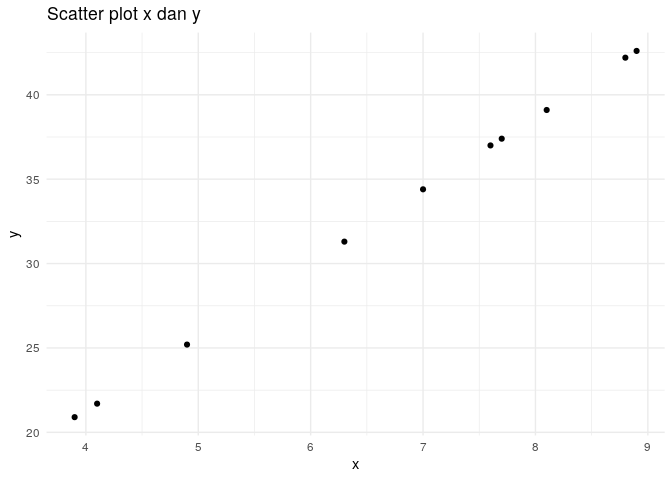
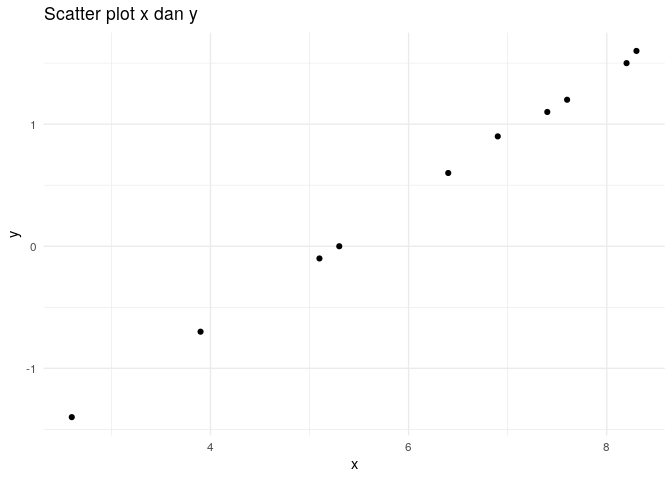
new

diff --git a/_posts/matematika ITB/analisa numerik lanjut/regresi_linear/post.html b/_posts/matematika ITB/analisa numerik lanjut/regresi_linear/post.html
@@ -648,34 +648,34 @@ n &amp; \sum_{i=1}^n x_i \\
 <hr />
 <p>Sekarang kita akan coba membuat persamaan regresi dari data tertentu berdasarkan persamaan di atas <strong>tanpa menggunakan function</strong> <code>lm()</code> dari <em>base</em>-nya <strong>R</strong>.</p>
 <p>Misalkan saya punya data sebagai berikut:</p>
-<pre><code>##  [1] 8.8 6.3 7.6 7.7 4.1 8.9 7.0 4.9 8.1 3.9
+<pre><code>##  [1] 6.9 7.6 3.9 7.4 5.1 2.6 8.3 5.3 8.2 6.4
 
-##  [1] 42.2 31.3 37.0 37.4 21.7 42.6 34.4 25.2 39.1 20.9
+##  [1]  0.9  1.2 -0.7  1.1 -0.1 -1.4  1.6  0.0  1.5  0.6
 </code></pre>
 <p>Jika dibuat dalam bentuk <em>scatter plot</em>:</p>
[2 lines of base64/hex data omitted]
 <p>Untuk membuat persamaan regresinya, kita cukup hitung:</p>
 <ul>
[6 lines of base64/hex data omitted]
 </ul>
 <p>Lalu saya akan buat matriks berikut:</p>
 <pre><code>##      [,1]   [,2]
-## [1,] 10.0  67.30
-## [2,] 67.3 484.03
+## [1,] 10.0  61.70
+## [2,] 61.7 413.29
 </code></pre>
 <p>dan membuat <em>vector</em> berikut:</p>
-<pre><code>## [1]  331.80 2368.34
+<pre><code>## [1]  4.70 46.01
 </code></pre>
[1 lines of base64/hex data omitted]
 <div class="sourceCode" id="cb4"><pre class="sourceCode r"><code class="sourceCode r"><a class="sourceLine" id="cb4-1" title="1"><span class="kw">solve</span>(A) <span class="op">%*%</span><span class="st"> </span>d</a></code></pre></div>
-<pre><code>##          [,1]
-## [1,] 3.896569
-## [2,] 4.351178
+<pre><code>##            [,1]
+## [1,] -2.7494678
+## [2,]  0.5217938
 </code></pre>
 <p>Kita dapatkan formulanya sebagai berikut:</p>
-<p>y = 4.3511784 x + 3.8965692</p>
+<p>y = 0.5217938 x + -2.7494678</p>
 <p>Salah satu <em>insight</em> yang bisa kita dapatkan adalah:</p>
 <blockquote>
 <p><em><strong>Ternyata masalah curve fitting yang sering dimasukkan ke dalam statistika justru diselesaikan secara aljabar.</strong></em></p>
@@ -688,7 +688,7 @@ n &amp; \sum_{i=1}^n x_i \\
 ## 
 ## Coefficients:
 ## (Intercept)            x  
-##       3.897        4.351
+##     -2.7495       0.5218
 </code></pre>
 <p>Terlihat jelas bahwa hasil antara <strong>algoritma bikininan sendiri</strong> vs <em>base</em> <strong>R</strong> memiliki hasil yang serupa.</p>
 <hr />

diff --git a/_posts/matematika ITB/analisa numerik lanjut/regresi_linear/post.md b/_posts/matematika ITB/analisa numerik lanjut/regresi_linear/post.md
@@ -170,9 +170,9 @@ berdasarkan persamaan di atas **tanpa menggunakan function** `lm()` dari
 
 Misalkan saya punya data sebagai berikut:
 
-    ##  [1] 8.8 6.3 7.6 7.7 4.1 8.9 7.0 4.9 8.1 3.9
+    ##  [1] 6.9 7.6 3.9 7.4 5.1 2.6 8.3 5.3 8.2 6.4
 
-    ##  [1] 42.2 31.3 37.0 37.4 21.7 42.6 34.4 25.2 39.1 20.9
+    ##  [1]  0.9  1.2 -0.7  1.1 -0.1 -1.4  1.6  0.0  1.5  0.6
 
 Jika dibuat dalam bentuk *scatter plot*:
 
@@ -182,23 +182,23 @@ Untuk membuat persamaan regresinya, kita cukup hitung:
 
   - ![\\sum\_{i=1}^n x\_i
     =](https://latex.codecogs.com/png.latex?%5Csum_%7Bi%3D1%7D%5En%20x_i%20%3D
-    "\\sum_{i=1}^n x_i =") 67.3
+    "\\sum_{i=1}^n x_i =") 61.7
   - ![\\sum\_{i=1}^n x\_i^2
     =](https://latex.codecogs.com/png.latex?%5Csum_%7Bi%3D1%7D%5En%20x_i%5E2%20%3D
-    "\\sum_{i=1}^n x_i^2 =") 484.03
+    "\\sum_{i=1}^n x_i^2 =") 413.29
   - ![\\sum\_{i=1}^n (x\_i y\_i)
     =](https://latex.codecogs.com/png.latex?%5Csum_%7Bi%3D1%7D%5En%20%28x_i%20y_i%29%20%3D
-    "\\sum_{i=1}^n (x_i y_i) =") 2368.34
+    "\\sum_{i=1}^n (x_i y_i) =") 46.01
 
 Lalu saya akan buat matriks berikut:
 
     ##      [,1]   [,2]
-    ## [1,] 10.0  67.30
-    ## [2,] 67.3 484.03
+    ## [1,] 10.0  61.70
+    ## [2,] 61.7 413.29
 
 dan membuat *vector* berikut:
 
-    ## [1]  331.80 2368.34
+    ## [1]  4.70 46.01
 
 Untuk mencari konstantanya, saya cukup lakukan
 ![A^{-1}d](https://latex.codecogs.com/png.latex?A%5E%7B-1%7Dd
@@ -208,13 +208,13 @@ Untuk mencari konstantanya, saya cukup lakukan
 solve(A) %*% d
 ```
 
-    ##          [,1]
-    ## [1,] 3.896569
-    ## [2,] 4.351178
+    ##            [,1]
+    ## [1,] -2.7494678
+    ## [2,]  0.5217938
 
 Kita dapatkan formulanya sebagai berikut:
 
-y = 4.3511784 x + 3.8965692
+y = 0.5217938 x + -2.7494678
 
 Salah satu *insight* yang bisa kita dapatkan adalah:
 
@@ -233,7 +233,7 @@ lm(y~x)
     ## 
     ## Coefficients:
     ## (Intercept)            x  
-    ##       3.897        4.351
+    ##     -2.7495       0.5218
 
 Terlihat jelas bahwa hasil antara **algoritma bikininan sendiri** vs
 *base* **R** memiliki hasil yang serupa.
